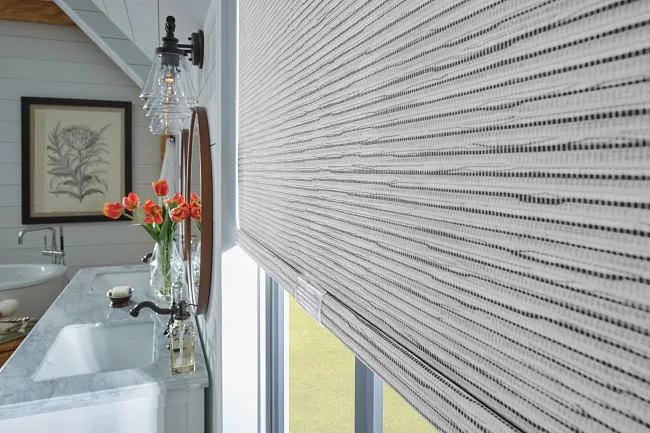
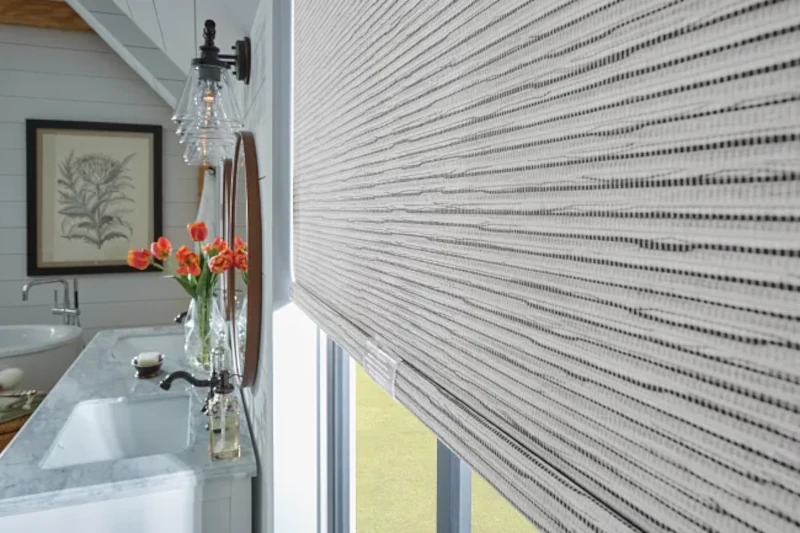
Update

diff --git a/index.html b/index.html
@@ -260,8 +260,8 @@
       <div class='vertical-center h-center-div'>
         <h3 class='h-center variable-h2'>Motorization</h3>
         <img class='' src="/images/Remote-Control-Shades.webp"
-          alt="Graber motorized window treatments operated via remote control in a smart home setup" width='652'
-          height='674' loading='lazy'>
+          alt="Graber motorized window treatments operated via remote control in a smart home setup" width='800'
+          height='533' loading='lazy'>
         <p class='margin-t-15 balanced-text'>Motorized blinds and shades offer the highest level of ease and convenience.
           Not only does motorization improve safety by removing unsightly cords, it allows you to operate your shades
           "hands free" from any room in your home, or from halfway around the world with use of a hub. Motorized shades
@@ -272,8 +272,8 @@
       <div class='padding-inline-25'>
         <h3 class='h-center balanced-text variable-h2'>UltraLite Cordless Lift System</h3>
         <img src="/images/21393-roller-shades-rs20-v3.webp" loading='lazy'
-          alt="Graber Shades with UltraLite Cordless Lift providing a sleek look in a contemporary bedroom" width='675'
-          height='450'>
+          alt="Graber Shades with UltraLite Cordless Lift providing a sleek look in a contemporary bedroom" width='800'
+          height='533'>
         <p class='margin-t-15'>The UltraLite cordless lift system from Graber takes the cordless experience to a whole new level. It is ultra-smooth, whisper quiet, and remarkably precise. Raise and lower your solar, roller, and layered shades with the lightest touch—with so little noise that it won’t wake a sleeping baby. Move the shade exactly where you want with almost no effort. And because you can place your shade precisely every time, you can easily adjust the shade to get the ideal light and privacy you experience—one that you need to try to believe.
         </p>
       </div>
